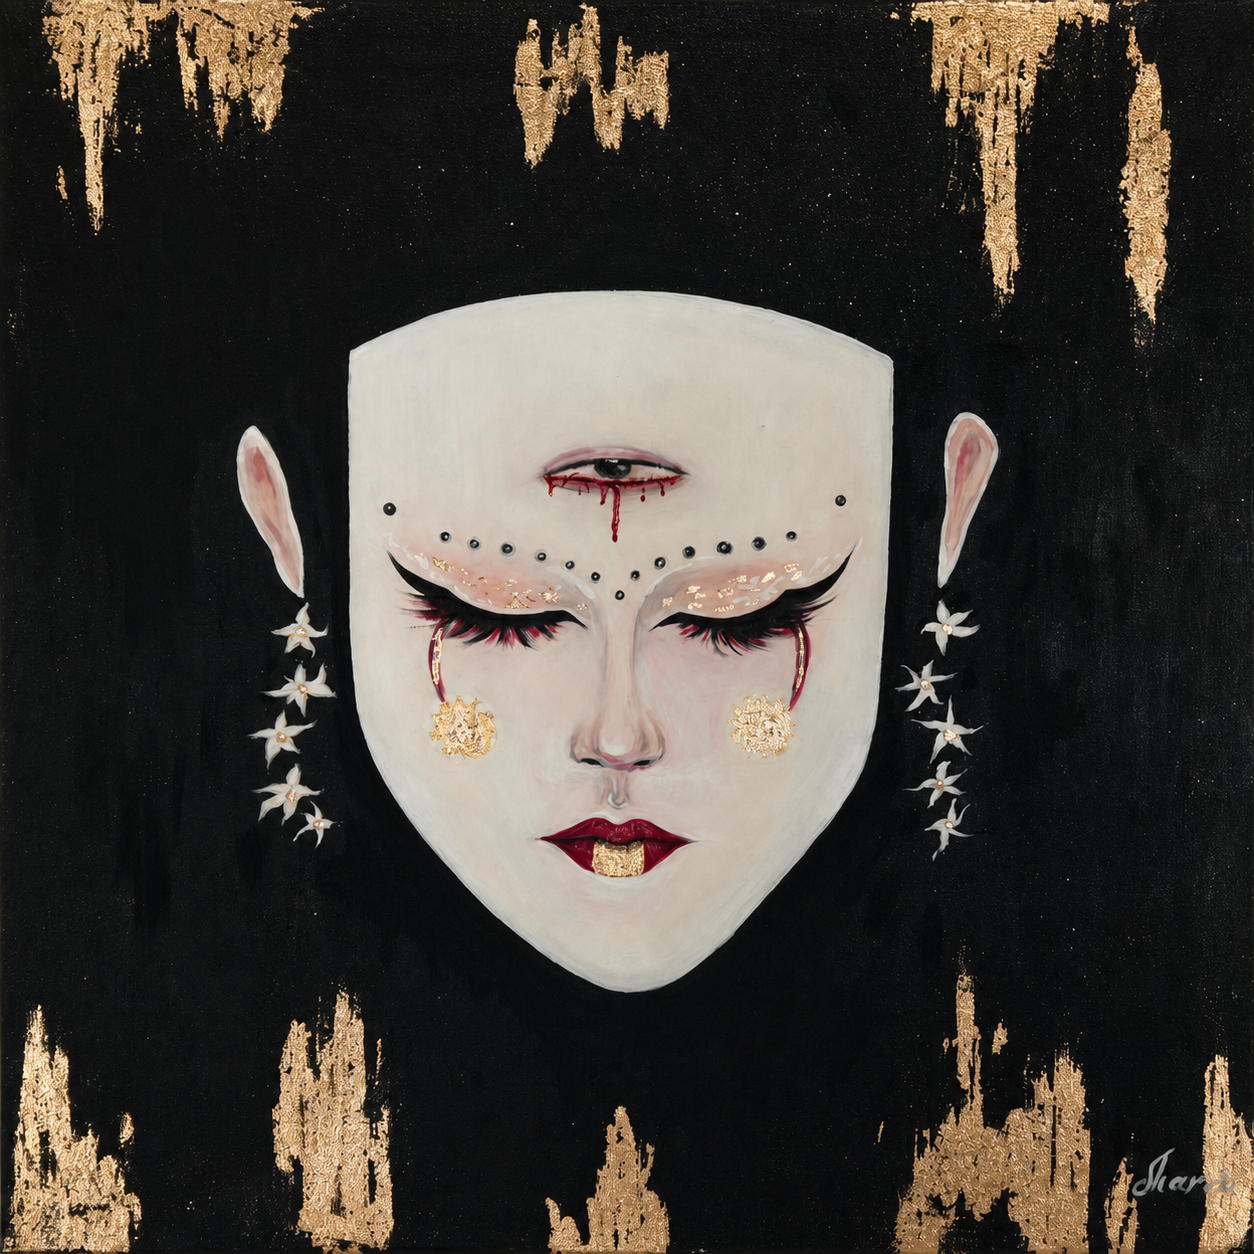
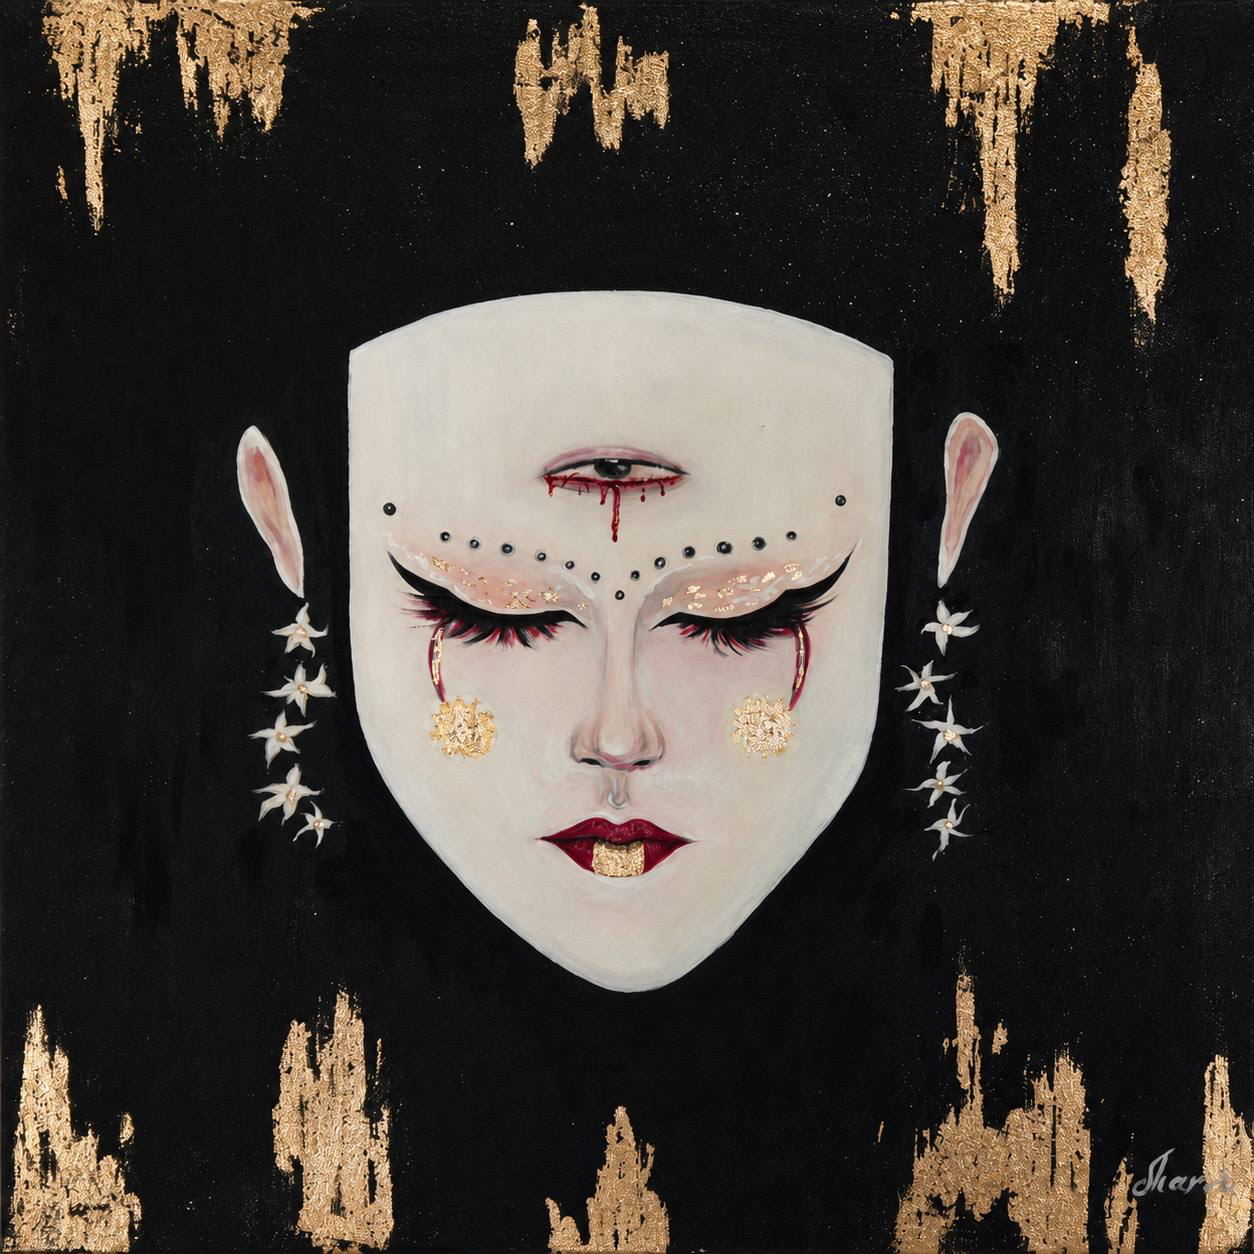
Update artwork imagery and navigation arrows

diff --git a/index.html b/index.html
@@ -39,7 +39,7 @@
 </h1>
 <div class="hero-actions">
 <a class="button light" href="works.html">Explore originals</a>
-<a class="text-link" href="prints.html">Discover editions &rarr;</a>
+<a class="text-link" href="prints.html">Discover editions <span class="arrow-inline" aria-hidden="true"></span></a>
 </div>
 </div>
 <p class="hero-side">Contemporary painting · Sculpture · Limited editions</p>
@@ -51,7 +51,7 @@
 </h2>
 <div class="split-copy reveal">
 <p>Maryia Zaloznaya transforms pain into image, memory into symbol and survival into beauty. Shaped by a life lived across countries and cultures, her work speaks to the hidden self --- the part of us that longs to be witnessed, reclaimed and set free.</p>
-<a class="arrow-link" href="about.html">Meet the artist <span>&rarr;</span>
+<a class="arrow-link" href="about.html">Meet the artist <span class="arrow-glyph" aria-hidden="true"></span>
 </a>
 </div>
 </section>
@@ -59,8 +59,8 @@
 <div class="slider-head">
 <p class="eyebrow">Selected works</p>
 <div>
-<button class="slide-prev">&larr;</button>
-<button class="slide-next">&rarr;</button>
+<button class="slide-prev" aria-label="Previous artwork"><span aria-hidden="true"></span></button>
+<button class="slide-next" aria-label="Next artwork"><span aria-hidden="true"></span></button>
 </div>
 </div>
 <div class="slides">
@@ -96,7 +96,7 @@
 <div>
 <p>Original works</p>
 <h3>One of one.</h3>
-<span>View collection &rarr;</span>
+<span>View collection <i class="arrow-inline" aria-hidden="true"></i></span>
 </div>
 </a>
 <a class="editorial-card reveal" href="prints.html">
@@ -104,7 +104,7 @@
 <div>
 <p>Signed editions</p>
 <h3>Art, within reach.</h3>
-<span>Explore prints &rarr;</span>
+<span>Explore prints <i class="arrow-inline" aria-hidden="true"></i></span>
 </div>
 </a>
 </section>

diff --git a/v3.css b/v3.css
@@ -1,5 +1,6 @@
 .site-header,.site-header.solid{height:72px!important;position:fixed!important;top:0!important;background:rgba(8,7,6,.96)!important;color:#fff!important;border-color:rgba(255,255,255,.17)!important;backdrop-filter:blur(16px)}
 .collection-slider{background:var(--ink);color:var(--milk);padding:8vw 6vw}.slider-head{display:flex;justify-content:space-between;align-items:center;border-bottom:1px solid rgba(255,255,255,.2);padding-bottom:16px;margin-bottom:5vw}.slider-head button{border:1px solid rgba(255,255,255,.35);background:transparent;color:#fff;width:45px;height:45px;margin-left:8px;font-size:18px;cursor:pointer}.slides{position:relative;min-height:82vh}.slide{display:none;grid-template-columns:1.12fr .88fr;gap:7vw;align-items:center;animation:slideIn .55s ease}.slide.active{display:grid}.slide img{height:78vh;object-fit:contain;background:#050505}.slide h2{font:400 clamp(48px,7vw,105px)/.9 Italiana,serif;margin:30px 0}.slide p,.slide span{text-transform:uppercase;letter-spacing:.16em;font-size:8px}.slide span{border-bottom:1px solid;padding-bottom:7px}@keyframes slideIn{from{opacity:.25;transform:translateX(15px)}to{opacity:1;transform:none}}
+.arrow-glyph,.slider-head button span,.arrow-inline{display:block;width:18px;height:10px;position:relative}.arrow-inline{display:inline-block;margin-left:8px;vertical-align:middle}.arrow-glyph::before,.slider-head button span::before,.arrow-inline::before{content:"";position:absolute;top:50%;left:0;width:18px;border-top:1px solid currentColor}.arrow-glyph::after,.slider-head button span::after,.arrow-inline::after{content:"";position:absolute;top:2px;right:0;width:7px;height:7px;border-top:1px solid currentColor;border-right:1px solid currentColor;transform:rotate(45deg)}.slider-head button span{margin:auto}.slide-prev span{transform:rotate(180deg)}
 @media(max-width:760px){.site-header,.site-header.solid{height:106px!important;padding:0 5vw 38px!important}.site-header nav{display:flex!important;position:absolute!important;left:0;right:0;bottom:0;top:auto!important;height:38px;padding:0 5vw!important;gap:24px!important;align-items:center;overflow-x:auto;white-space:nowrap;border-top:1px solid rgba(255,255,255,.12);background:transparent!important;flex-direction:row!important}.site-header nav a{font-size:8px}.menu{display:none!important}.collection-slider{padding:20vw 5vw}.slides{min-height:0}.slide.active{grid-template-columns:1fr}.slide img{height:62vh}.slide h2{font-size:12vw}}
 .reveal{opacity:1!important;transform:none!important}
 